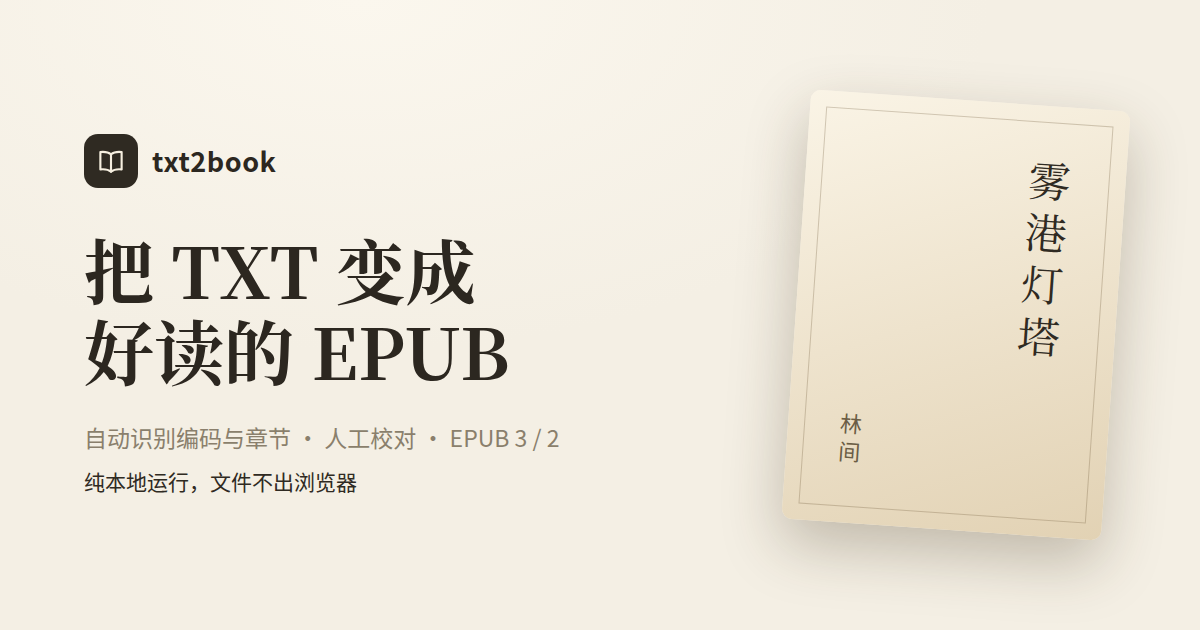
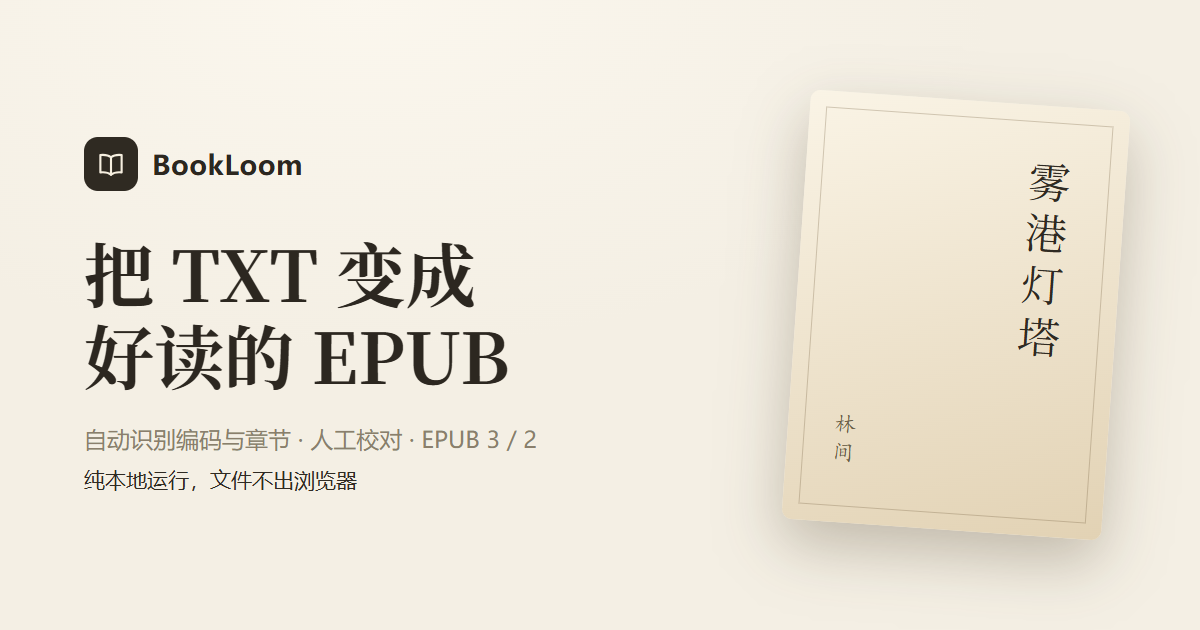
全面更名 BookLoom：本地存储、缓存与导出标识统一
localStorage 键改为 bookloom.*，IndexedDB 库名改为 bookloom，Service Worker 缓存改为 bookloom-v1；同步 PWA manifest、封面水印、HTML 导出 generator/footer、OG 分享图（重新生成）、冒烟脚本、Vite 插件名、package-lock 名称与文档。make-og 支持 CHROME_PATH 环境变量。

diff --git a/tests/draft-migration.test.ts b/tests/draft-migration.test.ts
@@ -29,7 +29,7 @@ function legacyDraft(overrides: Partial<DraftData> = {}): DraftData {
 
 function deleteDatabase(): Promise<void> {
   return new Promise((resolve, reject) => {
-    const request = indexedDB.deleteDatabase('txt2book');
+    const request = indexedDB.deleteDatabase('bookloom');
     request.onsuccess = () => resolve();
     request.onerror = () => reject(request.error);
   });
@@ -37,7 +37,7 @@ function deleteDatabase(): Promise<void> {
 
 function seedLegacy(draft: unknown, source: unknown | null, font: unknown | null): Promise<void> {
   return new Promise((resolve, reject) => {
-    const open = indexedDB.open('txt2book', 1);
+    const open = indexedDB.open('bookloom', 1);
     open.onupgradeneeded = () => {
       open.result.createObjectStore('drafts');
     };
@@ -60,7 +60,7 @@ function seedLegacy(draft: unknown, source: unknown | null, font: unknown | null
 
 function readLegacyKeys(): Promise<{ current: unknown; source: unknown; font: unknown }> {
   return new Promise((resolve, reject) => {
-    const open = indexedDB.open('txt2book', 2);
+    const open = indexedDB.open('bookloom', 2);
     open.onerror = () => reject(open.error);
     open.onsuccess = () => {
       const db = open.result;

diff --git a/src/app/state.ts b/src/app/state.ts
@@ -16,12 +16,12 @@ export const DEFAULT_LAYOUT: LayoutOptions = {
   coverOptions: DEFAULT_COVER_OPTIONS,
 };
 
-const LAYOUT_KEY = 'txt2book.layout.v1';
-const EPUB_VERSION_KEY = 'txt2book.epubVersion';
-const EXPORT_FORMAT_KEY = 'txt2book.exportFormat';
-const LIST_PAGE_SIZE_KEY = 'txt2book.listPageSize';
-const THEME_KEY = 'txt2book.theme';
-const LAST_BOOK_KEY = 'txt2book.lastBook.v1';
+const LAYOUT_KEY = 'bookloom.layout.v1';
+const EPUB_VERSION_KEY = 'bookloom.epubVersion';
+const EXPORT_FORMAT_KEY = 'bookloom.exportFormat';
+const LIST_PAGE_SIZE_KEY = 'bookloom.listPageSize';
+const THEME_KEY = 'bookloom.theme';
+const LAST_BOOK_KEY = 'bookloom.lastBook.v1';
 
 export type ThemeMode = 'light' | 'dark';
 export type MobileView = 'chapters' | 'preview';

diff --git a/src/core/cover.ts b/src/core/cover.ts
@@ -233,7 +233,7 @@ function paintVertical(
   ctx.textAlign = 'left';
   ctx.textBaseline = 'alphabetic';
   ctx.fillStyle = colors.muted;
-  ctx.fillText('txt2book', 240, HEIGHT - 150);
+  ctx.fillText('BookLoom', 240, HEIGHT - 150);
 }
 
 function paintBlock(
@@ -291,7 +291,7 @@ function paintBlock(
   ctx.textAlign = 'left';
   ctx.textBaseline = 'alphabetic';
   ctx.fillStyle = colors.onBlockMuted;
-  ctx.fillText('txt2book', 232, HEIGHT - 150);
+  ctx.fillText('BookLoom', 232, HEIGHT - 150);
 }
 
 function createCoverCanvas(

diff --git a/src/core/export/html.ts b/src/core/export/html.ts
@@ -108,7 +108,7 @@ export function buildHtml(input: HtmlInput): string {
 <head>
 <meta charset="utf-8">
 <meta name="viewport" content="width=device-width, initial-scale=1">
-<meta name="generator" content="txt2book">
+<meta name="generator" content="BookLoom">
 <title>${escapeXml(title)}</title>
 <style>
 ${styles(layout)}
@@ -120,7 +120,7 @@ ${styles(layout)}
 <main>
 ${body}
 </main>
-<footer class="book">由 txt2book 生成</footer>
+<footer class="book">由 BookLoom 生成</footer>
 </body>
 </html>
 `;

diff --git a/src/main.ts b/src/main.ts
@@ -609,8 +609,8 @@ function revealChapter(id: string): void {
 /** 第一次进工作区时提示一次行内操作，之后不再打扰 */
 function maybeShowRowHint(): void {
   try {
-    if (localStorage.getItem('txt2book.rowHintSeen') === '1') return;
-    localStorage.setItem('txt2book.rowHintSeen', '1');
+    if (localStorage.getItem('bookloom.rowHintSeen') === '1') return;
+    localStorage.setItem('bookloom.rowHintSeen', '1');
   } catch {
     return;
   }

diff --git a/index.html b/index.html
@@ -25,7 +25,7 @@
     <link rel="alternate" type="text/plain" href="/llms.txt" title="BookLoom 的 LLM 摘要" />
     <script>
       try {
-        const saved = localStorage.getItem('txt2book.theme');
+        const saved = localStorage.getItem('bookloom.theme');
         document.documentElement.dataset.theme =
           saved === 'light' || saved === 'dark'
             ? saved

diff --git a/tests/draft-store.test.ts b/tests/draft-store.test.ts
@@ -47,7 +47,7 @@ function makeSource(id: string): SourceRecord {
 
 function rawGet(key: string): Promise<unknown> {
   return new Promise((resolve, reject) => {
-    const open = indexedDB.open('txt2book', 2);
+    const open = indexedDB.open('bookloom', 2);
     open.onerror = () => reject(open.error);
     open.onsuccess = () => {
       const db = open.result;

diff --git a/src/core/draft.ts b/src/core/draft.ts
@@ -1,7 +1,7 @@
 import type { BookMeta, Chapter, ConvertMode, CoverData, FontData, LayoutOptions, ParseResult } from '../types';
 import type { RuleSpec } from './rules';
 
-const DB_NAME = 'txt2book';
+const DB_NAME = 'bookloom';
 const DB_VERSION = 2;
 const DRAFT_STORE = 'drafts';
 const BOOKS_STORE = 'books';

diff --git a/vite.config.ts b/vite.config.ts
@@ -31,7 +31,7 @@ const BUILT_AT = new Date().toISOString();
 
 function appMetaPlugin(): Plugin {
   return {
-    name: 'txt2book-app-meta',
+    name: 'bookloom-app-meta',
     transformIndexHtml(html) {
       return html
         .replaceAll('%APP_VERSION%', APP_VERSION)

diff --git a/src/notice.ts b/src/notice.ts
@@ -5,7 +5,7 @@
 
 import { beginModal } from './app/modal';
 
-const NOTICE_KEY = 'txt2book.noticeSeen';
+const NOTICE_KEY = 'bookloom.noticeSeen';
 
 interface NoticeItem {
   lead: string;

diff --git a/public/sw.js b/public/sw.js
@@ -1,4 +1,4 @@
-const CACHE = 'txt2book-v1';
+const CACHE = 'bookloom-v1';
 
 self.addEventListener('install', () => {
   self.skipWaiting();

diff --git a/docs/roadmap.md b/docs/roadmap.md
@@ -1,4 +1,4 @@
-# txt2book 开发计划
+# BookLoom 开发计划
 
 | 项 | 值 |
 | --- | --- |
@@ -11,7 +11,7 @@
 
 ## 1. 背景与现状
 
-txt2book 目前已经打通「导入 → 识别 → 校对 → 排版 → 导出」的主干：
+BookLoom 目前已经打通「导入 → 识别 → 校对 → 排版 → 导出」的主干：
 
 - TXT / EPUB 双向导入，EPUB 保留卷章层级与封面
 - 章节识别（标题形态 + 密度）、漏章诊断、人工校对
@@ -276,7 +276,7 @@ M3 已全部实现，随 v0.1.0 发布：
 
 - **草稿 schema**：M2 起新草稿写 `version: 3`（增加 `bookId`）；读取兼容 v1 / v2，旧记录由 `ensureMigrated()` 原子迁移。迁移失败保留旧数据并提示。
 - **LayoutOptions**：继续用可选字段扩展（已有 `separateChapterNumber`、`customCss`、`coverStyle`），旧草稿缺字段时取默认值。
-- **localStorage 键**：`txt2book.layout.v1`、`txt2book.epubVersion`、`txt2book.exportFormat`、`txt2book.theme`、`txt2book.noticeSeen`、`txt2book.lastBook.v1`；新增键统一加前缀并写读取兜底。
+- **localStorage 键**：`bookloom.layout.v1`、`bookloom.epubVersion`、`bookloom.exportFormat`、`bookloom.theme`、`bookloom.noticeSeen`、`bookloom.lastBook.v1`；新增键统一加前缀并写读取兜底。
 - **版本发布**：`npm version` 更新版本号，README 同步功能说明；版本与构建时间由构建脚本注入页面 JSON-LD（站点已不再维护独立更新日志页）。
 
 ## 6. 测试策略
